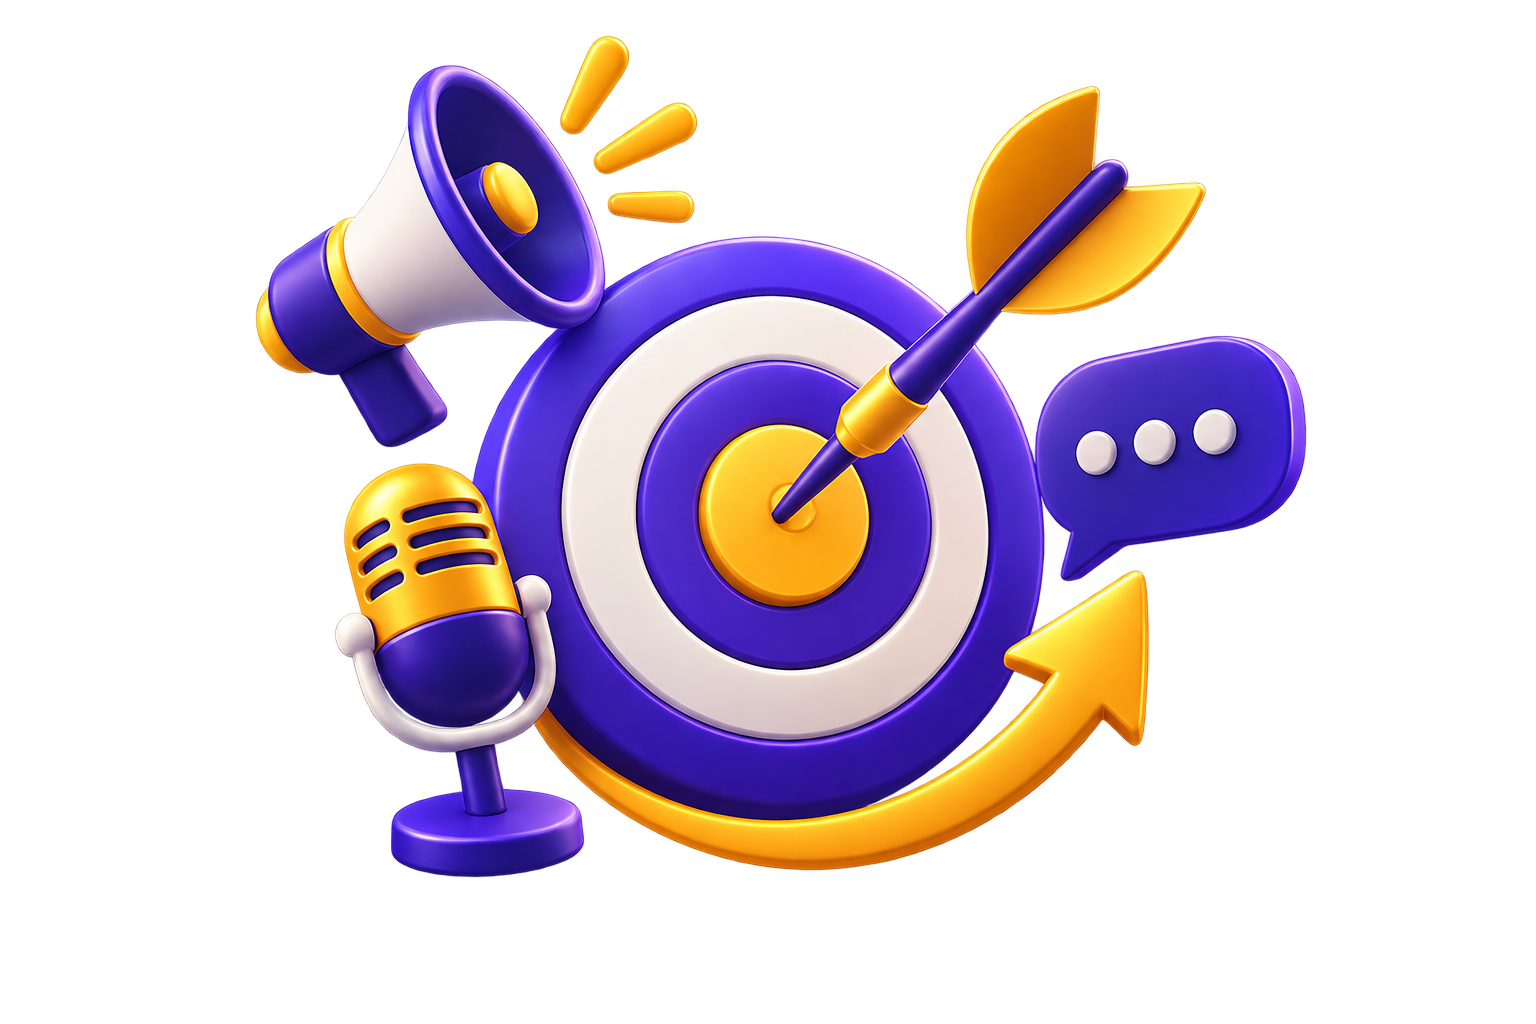
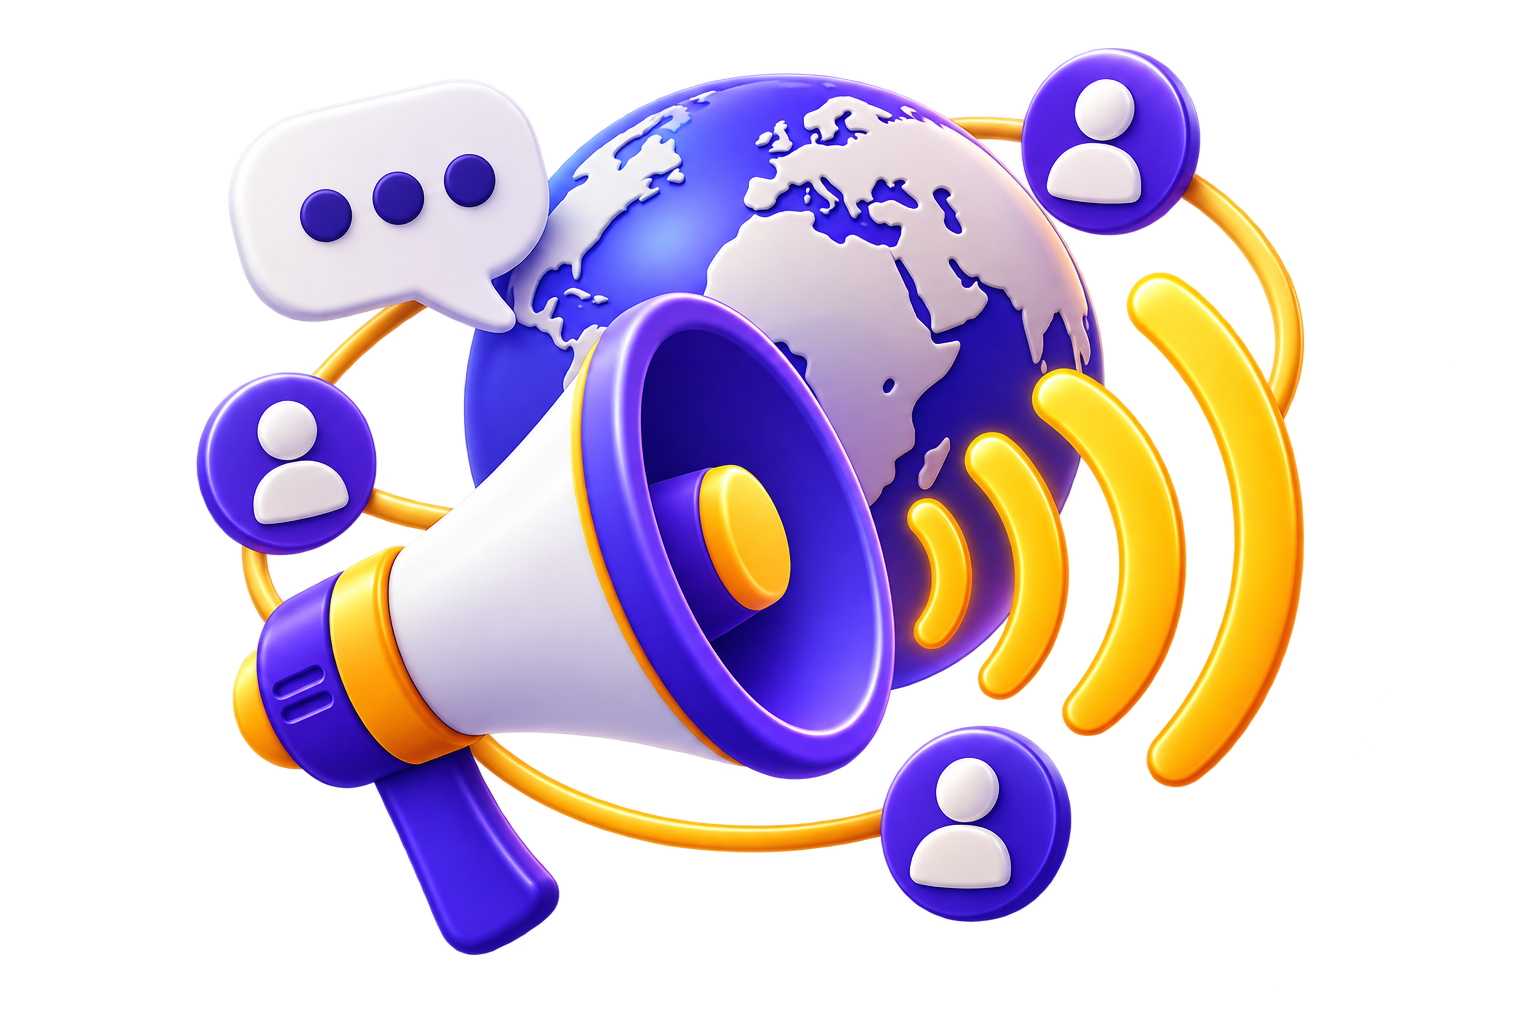
feat: update onboarding images and enhance slide widget styling

diff --git a/ncc_app/lib/src/onboarding/data/datasources/local/intro_data_local_data_source.dart b/ncc_app/lib/src/onboarding/data/datasources/local/intro_data_local_data_source.dart
@@ -26,7 +26,7 @@ class IntroDataLocalDataSourceImpl implements IntroDataLocalDataSource {
           'color': const Color(0xFF7C3AED),
           'title': 'appName',
           'description': 'onboardingWelcomeDescription',
-          'image': 'assets/images/onboarding/ncc.png',
+          'image': 'assets/images/splash.png',
         },
         {
           'color': const Color(0xFF4F46E5),
@@ -50,19 +50,19 @@ class IntroDataLocalDataSourceImpl implements IntroDataLocalDataSource {
           'color': const Color(0xFFD97706),
           'title': 'onboardingHeritageRadioTitle',
           'description': 'onboardingHeritageRadioDescription',
-          'image': 'assets/images/onboarding/heritage.png',
+          'image': 'assets/images/heritage-radio-background-less.png',
         },
         {
           'color': const Color(0xFF2563EB),
           'title': 'onboardingNotionRadioTitle',
           'description': 'onboardingNotionRadioDescription',
-          'image': 'assets/images/onboarding/notion.png',
+          'image': 'assets/images/notion-radio-background-less.png',
         },
         {
           'color': const Color(0xFFDC2626),
           'title': 'msfSlideTitle',
           'description': 'msfSlideDescription',
-          'image': 'assets/images/onboarding/msf-hor.png',
+          'image': 'assets/images/mof.png',
         },
       ],
     };

diff --git a/ncc_app/lib/src/onboarding/presentation/widgets/onboarding_slide_widget.dart b/ncc_app/lib/src/onboarding/presentation/widgets/onboarding_slide_widget.dart
@@ -32,8 +32,19 @@ class OnboardingSlideWidget extends StatelessWidget {
         mainAxisSize: .min,
         children: [
           ClipRRect(
-            borderRadius: BorderRadius.all(Radius.circular(kRoundedCorners)),
-            child: Image.asset(image, height: 200, width: 200),
+            borderRadius: BorderRadius.all(Radius.circular(100)),
+            child: Container(
+              height: 200,
+              width: 200,
+              color: Colors.white,
+              padding: EdgeInsets.all(kSmallPadding),
+              child: Image.asset(
+                image,
+                fit: BoxFit.contain,
+                height: 180,
+                width: 180,
+              ),
+            ),
           ),
           Gap(kMediumGap),
           BaseAnimatorWidget(

diff --git a/ncc_app/lib/src/main/presentation/pages/main_page.dart b/ncc_app/lib/src/main/presentation/pages/main_page.dart
@@ -70,6 +70,7 @@ class MainPage extends StatelessWidget {
               SliverToBoxAdapter(
                 child: Container(
                   color: baseBgColor,
+                  padding: EdgeInsetsDirectional.only(top: kLargePadding),
                   height: MediaQuery.sizeOf(context).height - expandedHeight,
                   child: Align(
                     alignment: AlignmentGeometry.topCenter,
